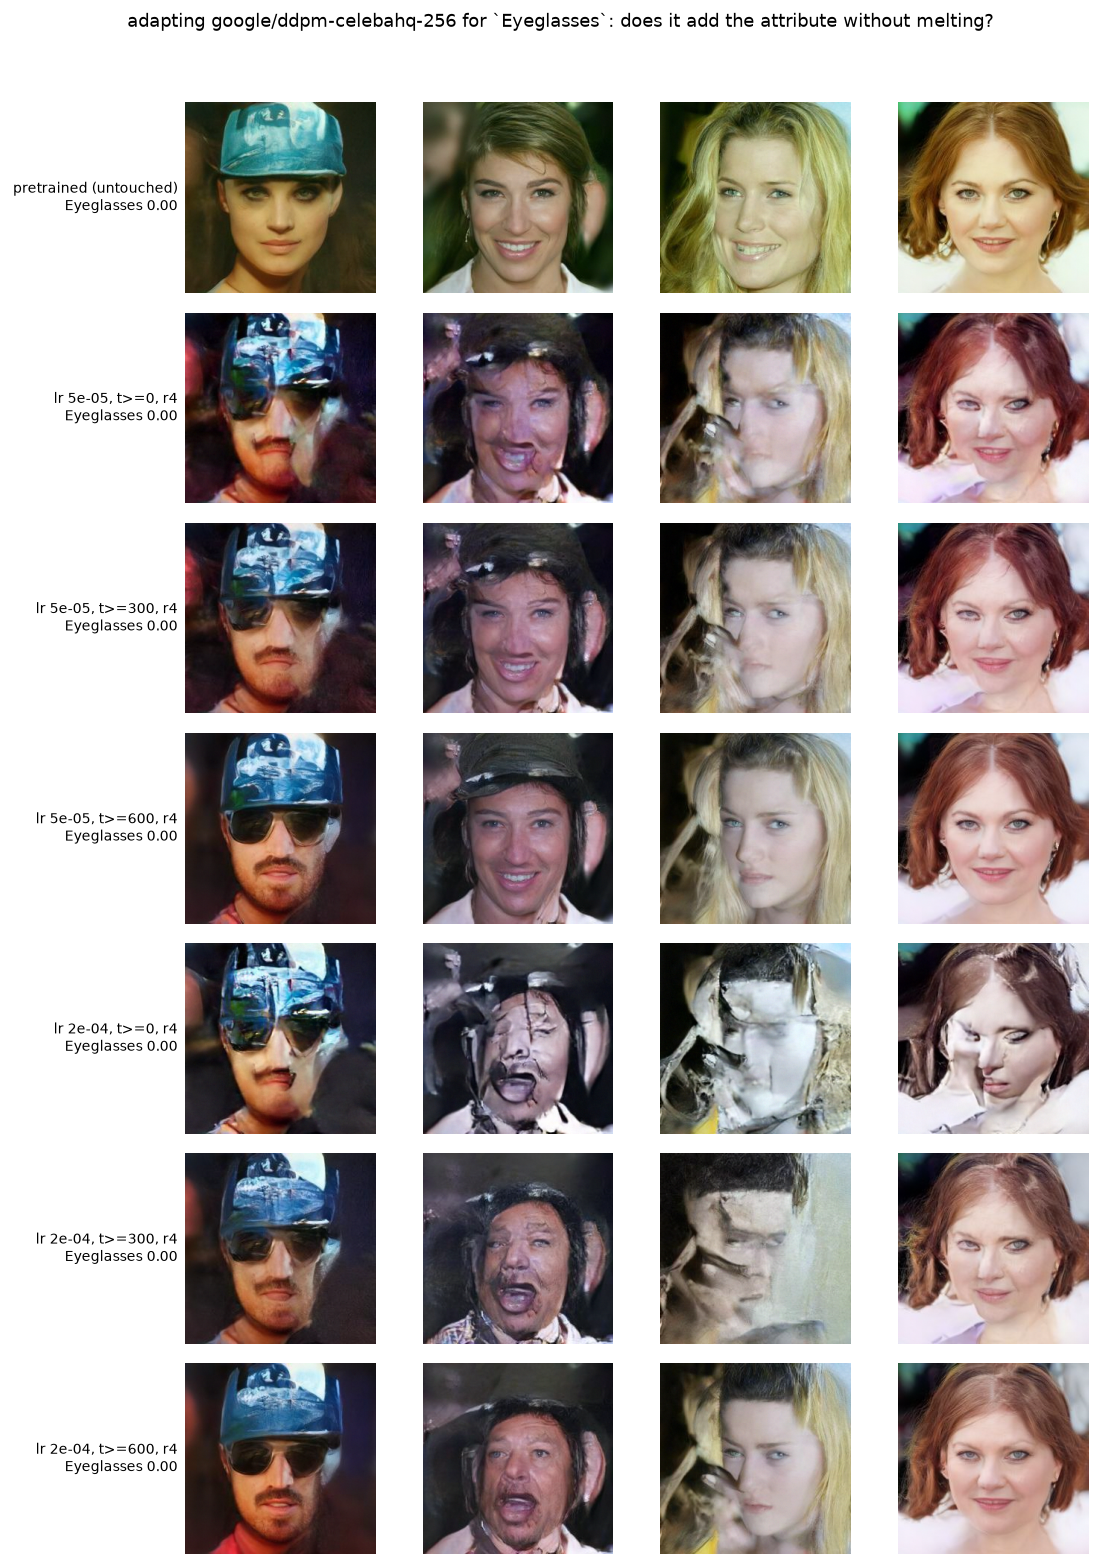
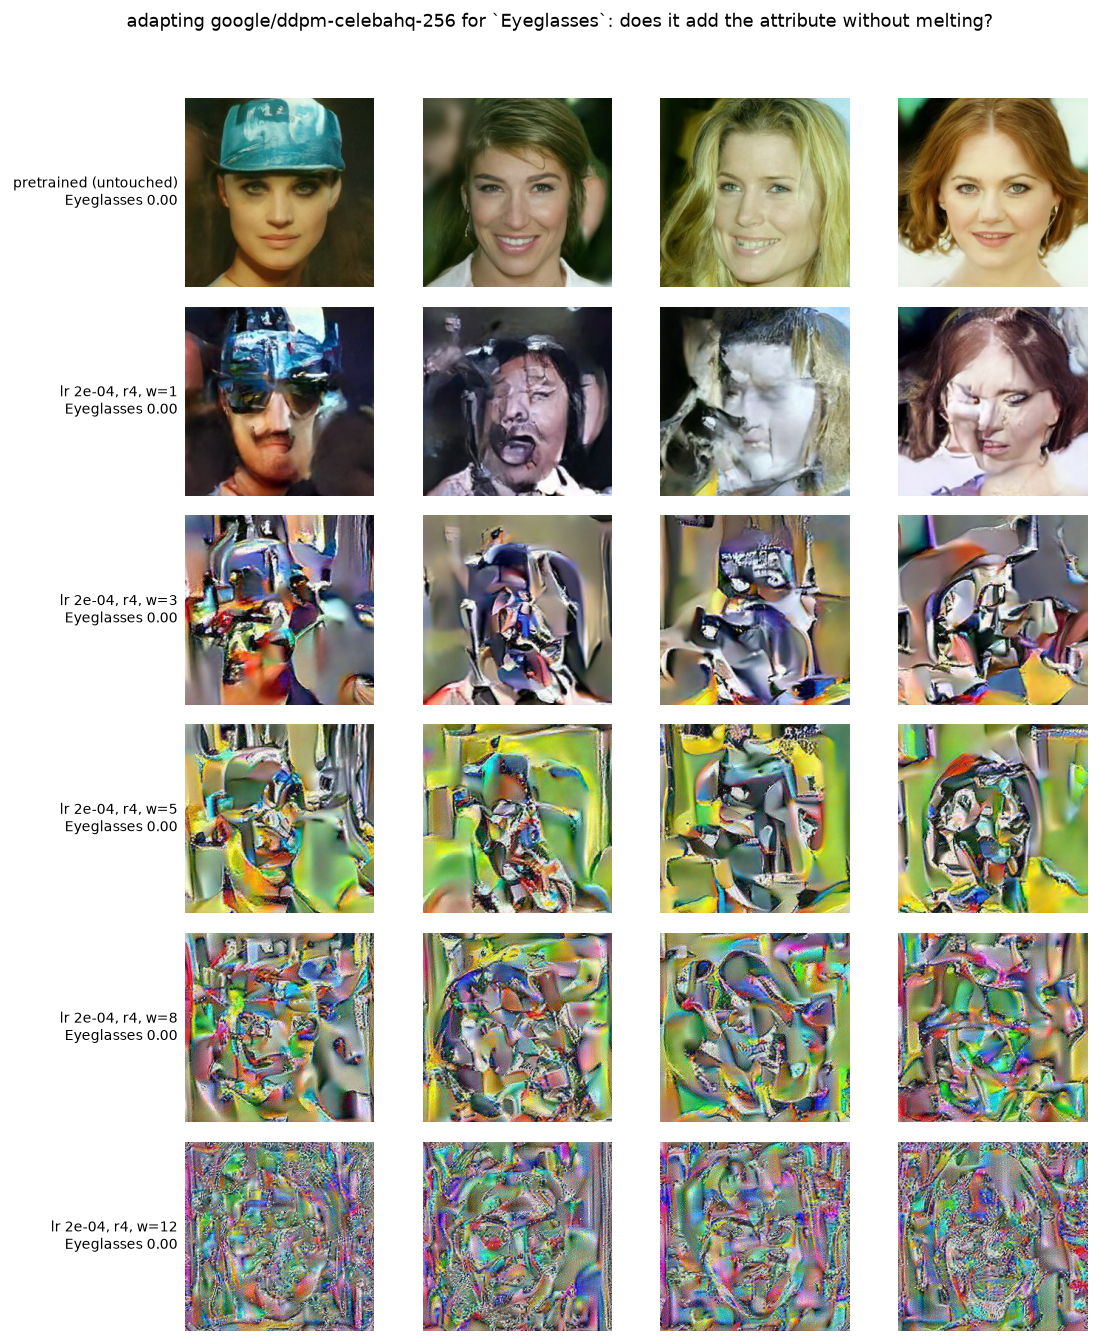
Stop adapting the noise-level path on the pretrained model
32 of google/ddpm-celebahq-256's 58 Linear modules are `time_emb_proj`, and two
more are the time embedding's own MLP.  So "adapt the linears, like the
personalization literature does" was in fact adapting the path that tells the
model what noise level it is at, in 34 places -- the same failure as writing to
the time embedding directly, reached by a different route.  That is the melted
faces, and it is why CFG amplification made things worse rather than better
(diversity 1.49 -> 1.18 as w rose, with the attribute never appearing).

`inject` takes an `exclude` argument now.  Excluding the time path leaves the 24
attention projections, which is where the concept should live and where the
literature actually puts it.

diff --git a/lifelong_ood/neural/adapters.py b/lifelong_ood/neural/adapters.py
@@ -116,12 +116,25 @@ class PathLoRA(nn.Module):
         return True
 
 
-def inject(model, rank, state, targets=("conv", "linear")):
-    """Replace every Conv2d/Linear in `model` with a PathLoRA wrapper.  -> list of wrappers."""
+def inject(model, rank, state, targets=("conv", "linear"), exclude=()):
+    """Replace every Conv2d/Linear in `model` with a PathLoRA wrapper.  -> list of wrappers.
+
+    `exclude` skips children whose attribute name contains any of the given strings.  It exists for
+    pretrained backbones, where "adapt every Linear" is not the neutral choice it sounds like: in
+    `google/ddpm-celebahq-256`, **32 of the 58 Linear modules are `time_emb_proj`** and two more are
+    the time embedding's own MLP, so adapting linears means overwhelmingly adapting the path that
+    tells the model WHAT NOISE LEVEL IT IS AT.  Perturbing that in 34 places corrupts denoising
+    globally -- the same failure as writing to the time embedding directly, arrived at by a different
+    route -- and it is what produced melted faces and collapsing diversity under guidance.  Excluding
+    it leaves the 24 attention projections, which is where the personalization literature adapts.
+    """
     wrapped = []
+    ex = tuple(exclude or ())
 
     def walk(mod):
         for name, child in list(mod.named_children()):
+            if any(e in name for e in ex):
+                continue
             is_c = isinstance(child, nn.Conv2d) and "conv" in targets
             is_l = isinstance(child, nn.Linear) and "linear" in targets
             if is_c or is_l:
@@ -256,7 +269,8 @@ class HierarchicalAdapterBank:
     """Frozen base UNet + a growing tree of LoRA deltas + one new class embedding per concept."""
 
     def __init__(self, model, rank=8, device="cuda", var=0.1, branch_max=4, max_depth=3,
-                 freeze_ancestors=True, flat=False, targets=("conv", "linear")):
+                 freeze_ancestors=True, flat=False, targets=("conv", "linear"),
+                 exclude=()):
         self.model = model
         self.device = device
         self.rank = int(rank)
@@ -270,7 +284,7 @@ class HierarchicalAdapterBank:
         # layers at once and the samples melt, so ('linear',) -- attention and the
         # projections, which is where the LoRA personalization literature puts it -- is the
         # setting that behaves.
-        self.wrapped = inject(model, rank, self.state, targets=targets)
+        self.wrapped = inject(model, rank, self.state, targets=targets, exclude=exclude)
         self.tree = ConceptTree(var=var, branch_max=branch_max, max_depth=max_depth, flat=flat)
         self.concepts = {}                   # name -> dict(path, leaf)
         self.frozen = set()                  # created by an earlier batch: immutable

diff --git a/experiments/n25_pretrained_case.py b/experiments/n25_pretrained_case.py
@@ -227,6 +227,11 @@ def main():
                         "is too coarse for fine attributes (Eyeglasses TPR 0.38 there)")
     p.add_argument("--epochs", type=int, default=6)
     p.add_argument("--rank", type=int, default=8)
+    p.add_argument("--exclude", nargs="*",
+                   default=["time_emb_proj", "time_embedding"],
+                   help="layer names to leave alone.  32 of this model's 58 Linear "
+                        "modules are time_emb_proj: adapting them perturbs the noise-level "
+                        "signal in 34 places, which is what melted the v1/v2 samples.")
     p.add_argument("--targets", nargs="+", default=["linear"],
                    help="layer types to adapt.  `linear` only (attention and the "
                         "projections) is where the LoRA personalization literature puts "
@@ -264,7 +269,8 @@ def main():
           f"BOTH {len(data['both'])} (the target, never shown to either concept)", flush=True)
 
     bank = HierarchicalAdapterBank(field.model, rank=args.rank, device=dev, flat=True,
-                                   targets=tuple(args.targets))
+                                   targets=tuple(args.targets),
+                                   exclude=tuple(args.exclude))
     field.bank = bank
     got = {}
 

diff --git a/tests/diag_pretrained_lora.py b/tests/diag_pretrained_lora.py
@@ -120,7 +120,8 @@ def main():
                 t0 = time.time()
                 f2, _ = load_pretrained(args.model, device=dev, batch=args.batch)
                 bank = HierarchicalAdapterBank(f2.model, rank=rk, device=dev, flat=True,
-                                               targets=("linear",))
+                                               targets=("linear",),
+                                               exclude=("time_emb_proj", "time_embedding"))
                 f2.bank = bank
                 bank.add_concept(A, to_model(data["a_only"]).mean(0))
                 train(f2, bank, A, data["a_only"], img, args.epochs, args.batch, lr, tm,
